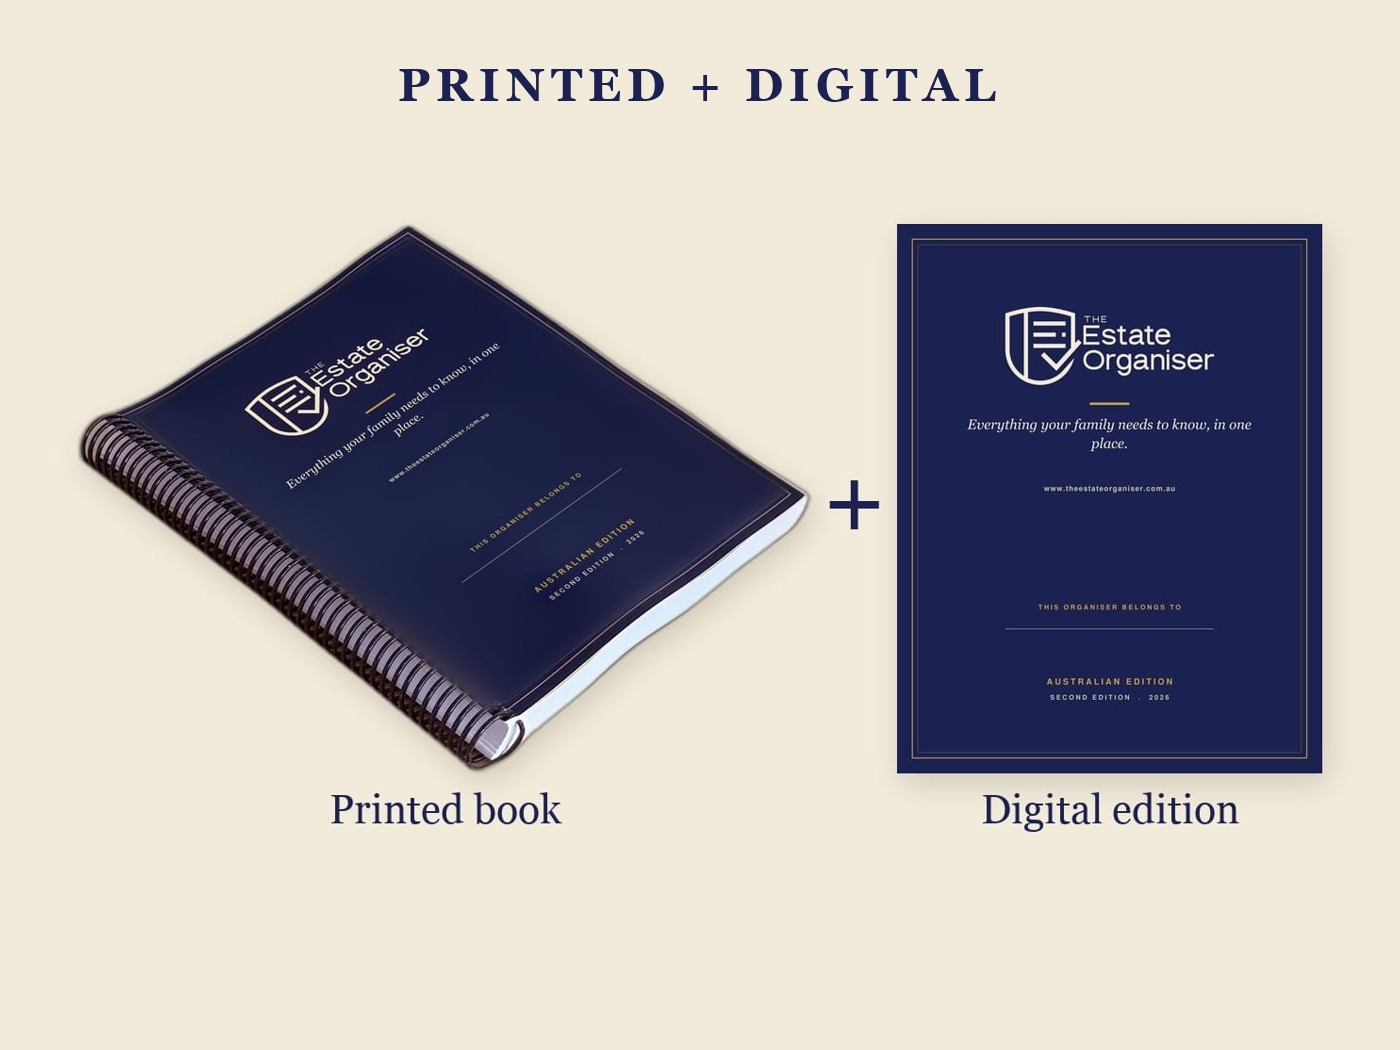
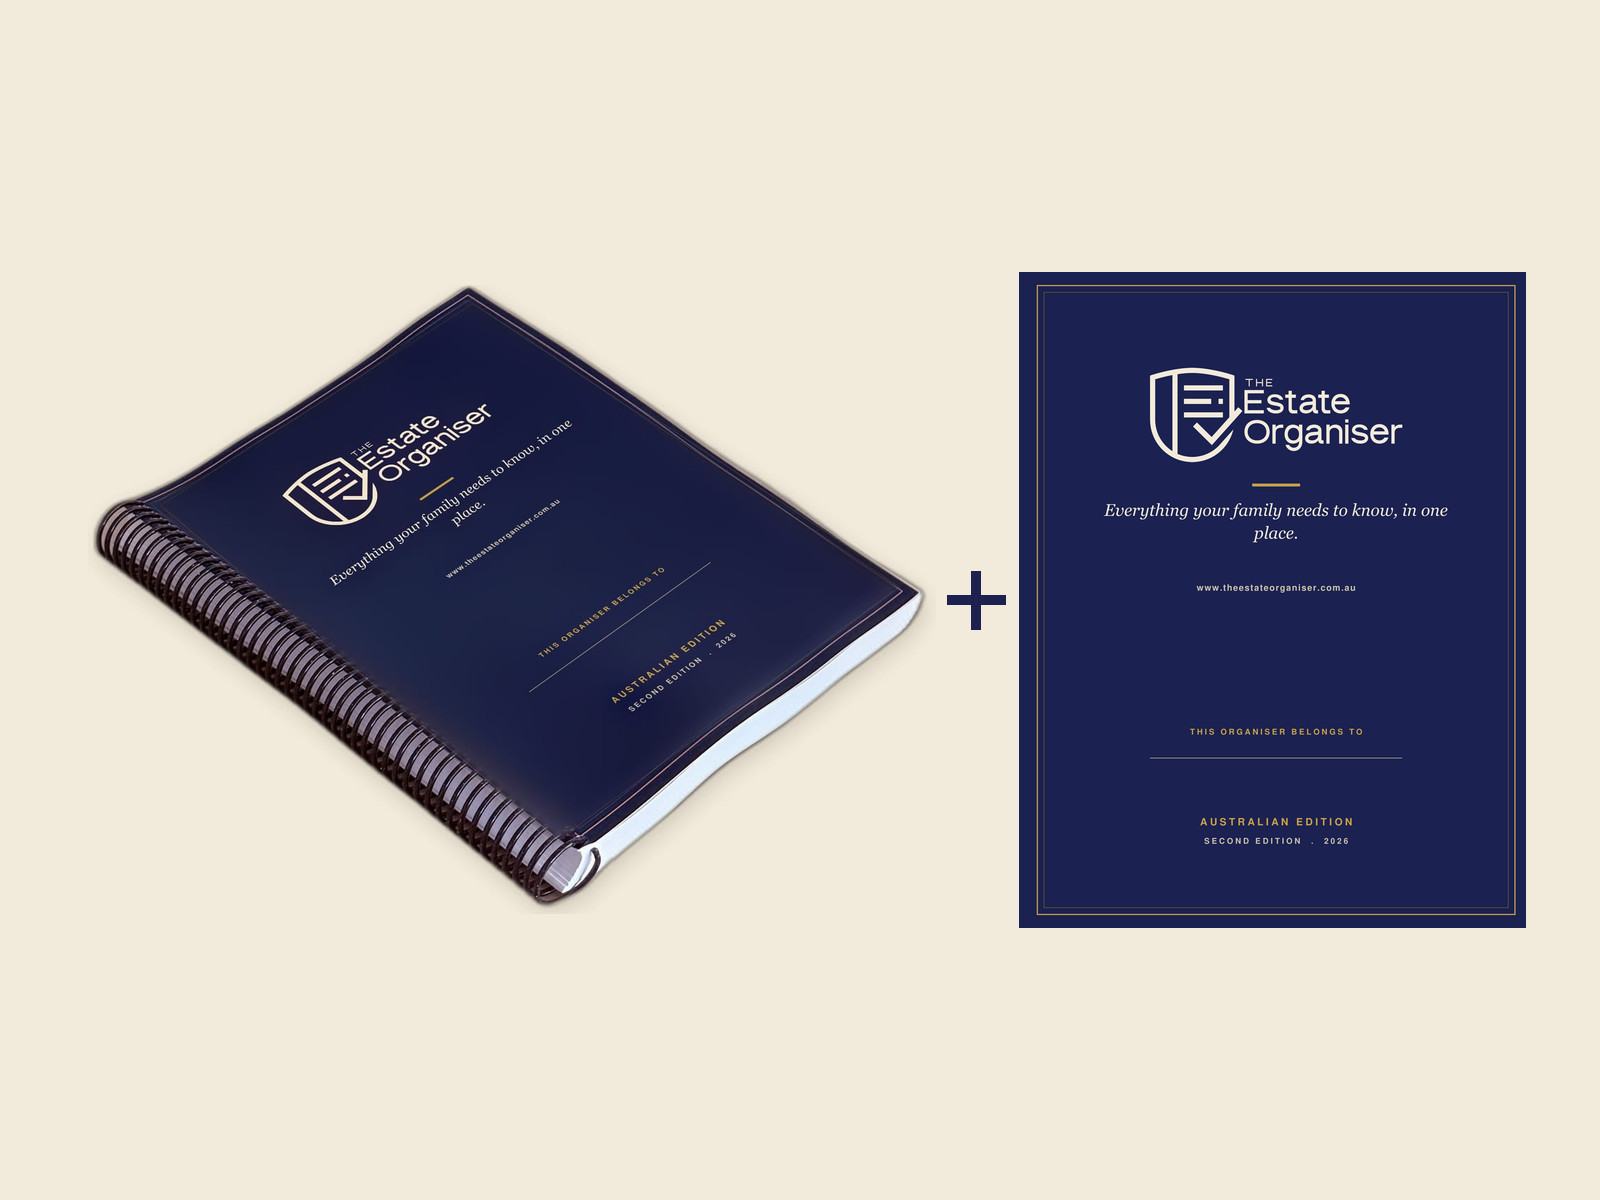
Format cards: drop the baked-in labels, rebuild from the print sources
The tier card images carried "DIGITAL ONLY", "PRINTED + DIGITAL", "Printed book"
and "Digital edition" burnt into the artwork. Drawn at 1400px and displayed at
about 341 CSS px, those letterforms landed around 10px and read as blurry. The
card already names the format underneath in HTML, so the labels are gone.

Rebuilt at 1600x1200 from the originals rather than upscaled: the cover comes off
the print cover spread PDF at 400 dpi, the coil book off the 3D render in Brand
Assets. Each site gets its own market cover. Composition and cream field are
unchanged, art vertically centred now the labels no longer take the top.

Build script: Estate Organiser/Assets/card-images/build-cards.py

diff --git a/index.html b/index.html
@@ -403,7 +403,7 @@ footer .legal{margin-top:20px;font-size:.8rem;line-height:1.6;color:#8b887f;max-
 
     <div class="tiles book">
       <div class="tile">
-        <img class="tileimg" src="/assets/card-digital.jpg" alt="The Estate Organiser digital edition">
+        <img class="tileimg" src="/assets/card-digital.jpg?v=2" alt="The Estate Organiser digital edition">
         <h4>Digital Edition</h4>
         <p class="t-price">$79 AUD</p>
         <p class="t-sub">Fillable PDF, instant download</p>
@@ -414,7 +414,7 @@ footer .legal{margin-top:20px;font-size:.8rem;line-height:1.6;color:#8b887f;max-
         <p class="micro">Add a Partner Copy at checkout, A$29, sent to their email</p>
       </div>
       <div class="tile featured">
-        <div class="tile-badge">Most people choose this</div><img class="tileimg" src="/assets/card-both.jpg" alt="The printed book and the digital edition together">
+        <div class="tile-badge">Most people choose this</div><img class="tileimg" src="/assets/card-both.jpg?v=2" alt="The printed book and the digital edition together">
         <h4>Printed + Digital</h4>
         <p class="t-price">$149 AUD</p>
         <p class="t-sub">Free shipping, digital instantly</p>

diff --git a/the-estate-organiser/index.html b/the-estate-organiser/index.html
@@ -634,7 +634,7 @@ document.addEventListener('click',function(e){
 
     <div class="tiers book">
       <div class="tier">
-        <img class="tileimg" src="/assets/card-digital.jpg" alt="Digital Edition">
+        <img class="tileimg" src="/assets/card-digital.jpg?v=2" alt="Digital Edition">
         <h3>Digital Edition</h3>
         <p class="t-price">$79 AUD</p>
         <p class="t-sub">Fillable PDF, instant download<br><span class="complete-tag" style="margin-top:10px">Complete on its own</span></p>
@@ -645,7 +645,7 @@ document.addEventListener('click',function(e){
         <p class="micro">Add a Partner Copy at checkout, A$29, sent to their email</p>
       </div>
       <div class="tier featured">
-        <div class="tier-badge">Most people choose this</div><img class="tileimg" src="/assets/card-both.jpg" alt="Printed + Digital">
+        <div class="tier-badge">Most people choose this</div><img class="tileimg" src="/assets/card-both.jpg?v=2" alt="Printed + Digital">
         <h3>Printed + Digital</h3>
         <p class="t-price">$149 AUD</p>
         <p class="t-sub">Free shipping, digital copy instantly<br><span class="complete-tag" style="margin-top:10px">Complete on its own</span></p>
